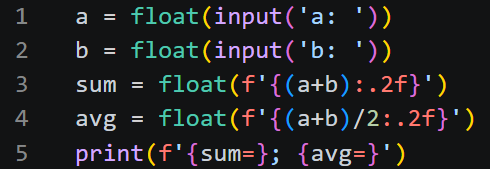
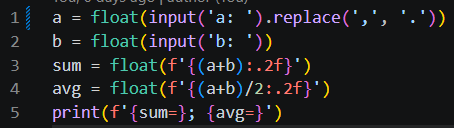
fix lab01

diff --git a/src/lab01/02_sum_avg.py b/src/lab01/02_sum_avg.py
@@ -1,4 +1,4 @@
-a = float(input('a: '))
+a = float(input('a: ').replace(',', '.'))
 b = float(input('b: '))
 sum = float(f'{(a+b):.2f}')
 avg = float(f'{(a+b)/2:.2f}')

diff --git a/README.md b/README.md
@@ -1,4 +1,4 @@
 # labs
 ### [lab01](https://github.com/Mertysh/python_labs/blob/main/src/lab01/README.md)
 
-### [lab02](https://github.com/Mertysh/python_labs/blob/51b7215743784c1c282d43dd561e23f3da4d4249/src/lab2/README.md)
+### [lab02](https://github.com/Mertysh/python_labs/blob/51b7215743784c1c282d43dd561e23f3da4d4249/src/lab02/README.md)
